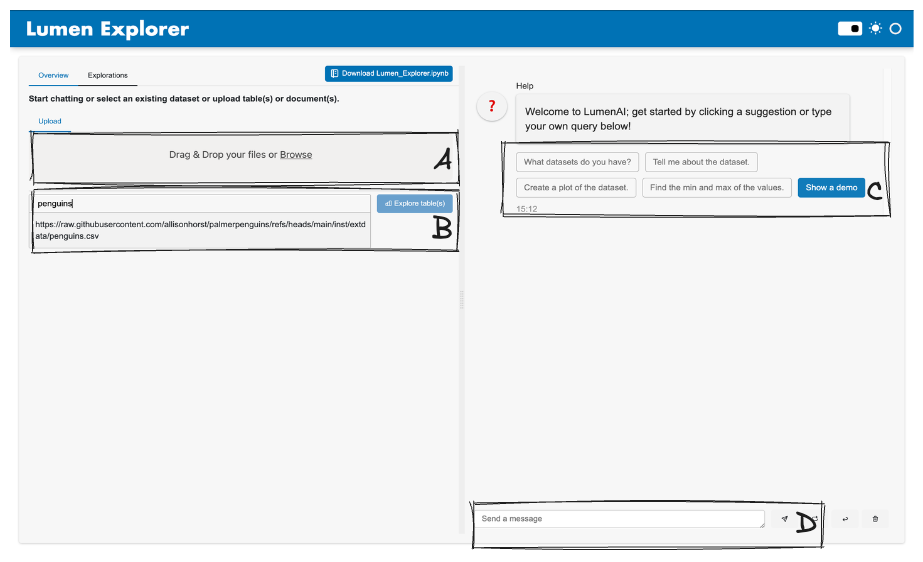
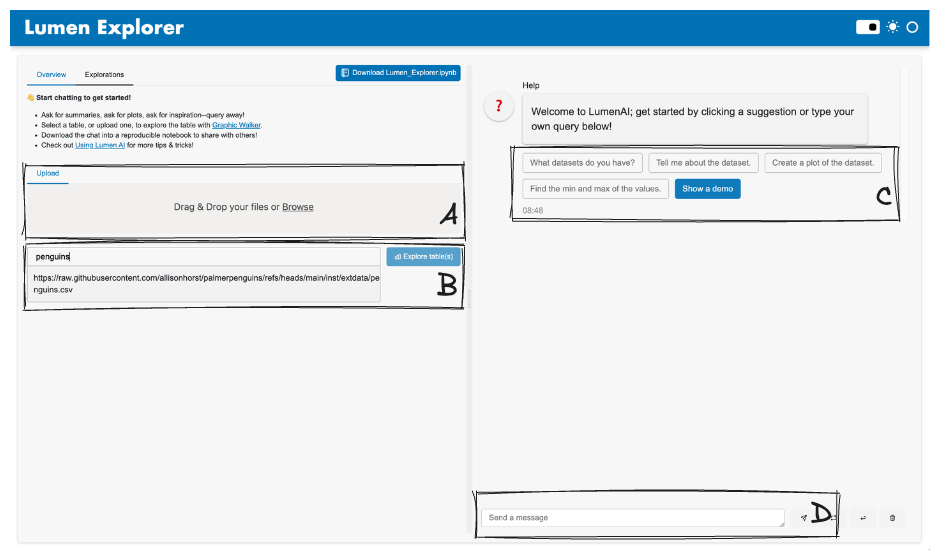
Add intro messages (#922)

Changed region(s): [[0.0, 0.1216, 0.9707, 0.5778], [0.4854, 0.8515, 0.9101, 1.0], [0.0, 0.0304, 1.0, 0.0912]]

diff --git a/lumen/ai/ui.py b/lumen/ai/ui.py
@@ -48,6 +48,24 @@ if TYPE_CHECKING:
 DataT = str | Path | Source | Pipeline
 
 
+OVERVIEW_INTRO = """
+👋 **Start chatting to get started!**
+
+- Ask for summaries, ask for plots, ask for inspiration--query away!
+- Select a table, or upload one, to explore the table with [Graphic Walker](https://docs.kanaries.net/graphic-walker).
+- Download the chat into a reproducible notebook to share with others!
+- Check out [Using Lumen AI](https://holoviz-dev.github.io/lumen/lumen_ai/getting_started/using_lumen_ai.html) for more tips & tricks!
+"""
+
+EXPLORATIONS_INTRO = """
+🧪 **Explorations**
+
+- Explorations are analyses applied to one or more datasets.
+- An exploration consists of interactive tables and visualizations.
+- New explorations are launched in a new tab for each SQL query result.
+- Each exploration maintains its own context, so you can branch off an existing result by navigating to that tab.
+"""
+
 class UI(Viewer):
     """
     UI provides a baseclass and high-level entrypoint to start chatting with your data.
@@ -300,9 +318,16 @@ class ExplorerUI(UI):
         self._contexts = []
         self._root_conversation = self._coordinator.interface.objects
         self._conversations = []
+
+        self._explorations_intro = Markdown(
+            EXPLORATIONS_INTRO,
+            margin=(0, 0, 10, 0),
+            sizing_mode='stretch_width',
+            visible=self._explorations.param["objects"].rx.bool().rx.not_()
+        )
         self._output = Tabs(
             ('Overview', self._table_explorer()),
-            ('Explorations', self._explorations),
+            ('Explorations', Column(self._explorations_intro, self._explorations)),
             design=Material
         )
         self._main = Column(
@@ -468,8 +493,14 @@ class ExplorerUI(UI):
                 tabs.objects = explorers + [controls]
                 table_select.value = []
 
+        self._overview_intro = Markdown(
+            OVERVIEW_INTRO,
+            margin=(0, 0, 10, 0),
+            sizing_mode='stretch_width',
+            visible=self._coordinator.interface.param["objects"].rx.len() <= 1
+        )
         return Column(
-            Markdown('### Start chatting or select an existing dataset or upload table(s) or document(s).', margin=(5, 0)),
+            self._overview_intro,
             tabs,
             input_row,
             sizing_mode='stretch_both',
